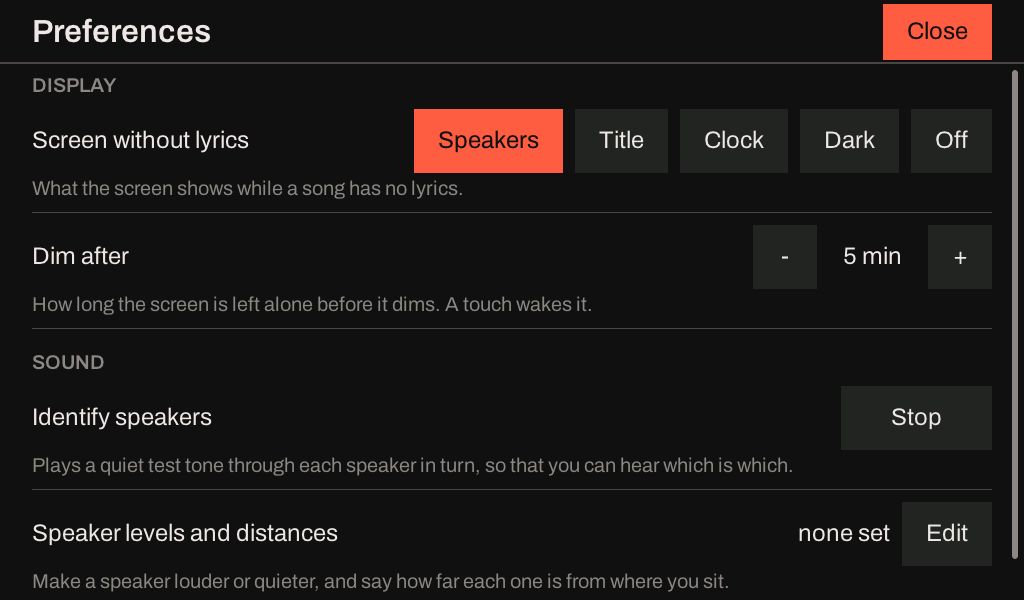
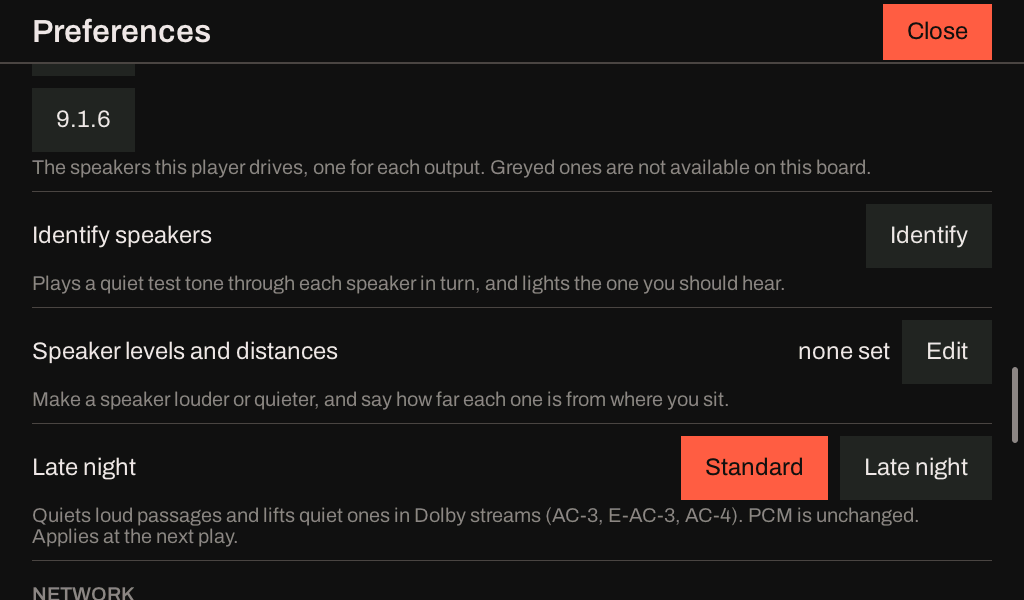
Hearth Speakers sheet: the pictures of the one view (9.1.6, 2.0, 480 by 320) and of the Sound group

diff --git a/docs/hearth/sink-speakers.md b/docs/hearth/sink-speakers.md
@@ -45,7 +45,9 @@ and the rest of a larger room's, the height speakers among them), and **the spea
 which one you hear is the one you see. A tap on a speaker chooses it (it is ringed) and plays the tone through it. For the
 chosen speaker, *Level* goes up and down half a decibel a tap and *Distance* a tenth of a metre, or a metre with *-1 m* and
 *+1 m* (the first *+* on a speaker with no distance starts it at the farthest distance the others have, so that nothing moves
-until you move it); the line above them says what is in force at it.
+until you move it); the line above them says what is in force at it. A 2.0 room is the same sheet with two speakers:
+
+![The Speakers sheet in a 2.0 room, the right speaker lit](screenshots/p4-panel-speakers-2-0.png)
 
 **The five buttons are a bar at the foot of the sheet that is always on the screen**: *Play* (the chosen speaker once), *Repeat*
 (it over and over, so that a level can be set by ear), *Play each* (every speaker in turn), *Stop* and *Reset* (the chosen
